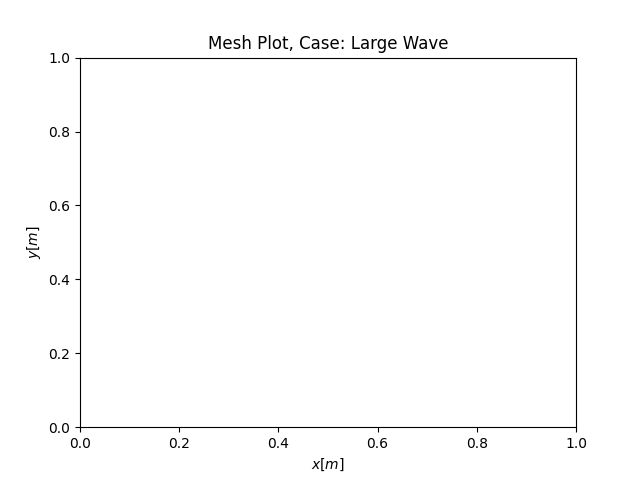
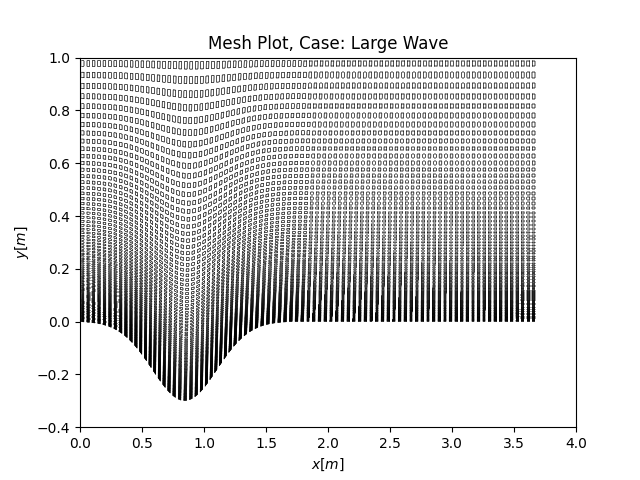
Halfway done w meshplots

diff --git a/pl_vect2d-1_limited_domain.py b/pl_vect2d-1_limited_domain.py
@@ -607,29 +607,54 @@ print("Plotting")
 
 
 #---------Mesh Plot---------
+fig4, ax4 = plt.subplots()
+
 connection_x = []
 connection_y = []
-print(ni)
-print(nj)
+
 #168x192
-for y in range(nj):
-    for x in range(ni-1):
-        connection_x.append([xp2d_2[x,y], xp2d_2[x+1,y]])
-        connection_y.append([yp2d_2[x,y], yp2d_2[x+1,y]])
+for i in range(nj):
+    connection_x = ([xp2d_2[::2,-i],xp2d_2[1::2,-i]])
+    connection_y = ([yp2d_2[::2,-i],yp2d_2[1::2,-i]])
 
-for x in range(ni):
-    for y in range(nj-1):
-        connection_x.append([xp2d_2[x,y],xp2d_2[x,y+1]])
-        connection_y.append([yp2d_2[x,y],yp2d_2[x,y+1]])
+    line = np.transpose(np.array([connection_x,connection_y]))
+    lines = LineCollection(line,linewidth = 0.3, colors = 'k')
+    plt.gca().add_collection(lines)
 
-line = np.transpose(np.array([connection_x,connection_y]))
-lines = LineCollection(line,linewidth = 0.3,alpha = 1,colors = 'k')
+for i in range(ni):
+    connection_x = ([xp2d_2[i,::2],xp2d_2[i,1::2]])
+    connection_y = ([yp2d_2[i,::2],yp2d_2[i,1::2]])
 
-fig4, ax4 = plt.subplots()
-plt.gca().add_collection(lines)
+    line = np.transpose(np.array([connection_x,connection_y]))
+    lines = LineCollection(line,linewidth = 0.3, colors = 'k')
+    plt.gca().add_collection(lines)
+
+xp2d_x = np.delete(xp2d_2,0,1)
+yp2d_x = np.delete(yp2d_2,0,1)
+
+for i in range(nj-1):
+    connection_x = ([xp2d_x[::2,-i],xp2d_x[1::2,-i]])
+    connection_y = ([yp2d_x[::2,-i],yp2d_x[1::2,-i]])
+
+    line = np.transpose(np.array([connection_x,connection_y]))
+    lines = LineCollection(line,linewidth = 0.3, colors = 'k')
+    plt.gca().add_collection(lines)
+
+xp2d_y = np.delete(xp2d_2,0,0)
+yp2d_y = np.delete(yp2d_2,0,0)
+
+for i in range(ni-1):
+    connection_x = ([xp2d_y[i,::2],xp2d_y[i,1::2]])
+    connection_y = ([yp2d_y[i,::2],yp2d_y[i,1::2]])
+
+    line = np.transpose(np.array([connection_x,connection_y]))
+    lines = LineCollection(line,linewidth = 0.3, colors = 'k')
+    plt.gca().add_collection(lines)
+
 plt.title("Mesh Plot, Case: Large Wave")
 plt.xlabel("$x [m]$")
 plt.ylabel("$y [m]$")
+plt.axis([0, 4, -0.4, 1])
 plt.savefig("plots/Mesh_Large_Wave.png")
 
 plt.show()
